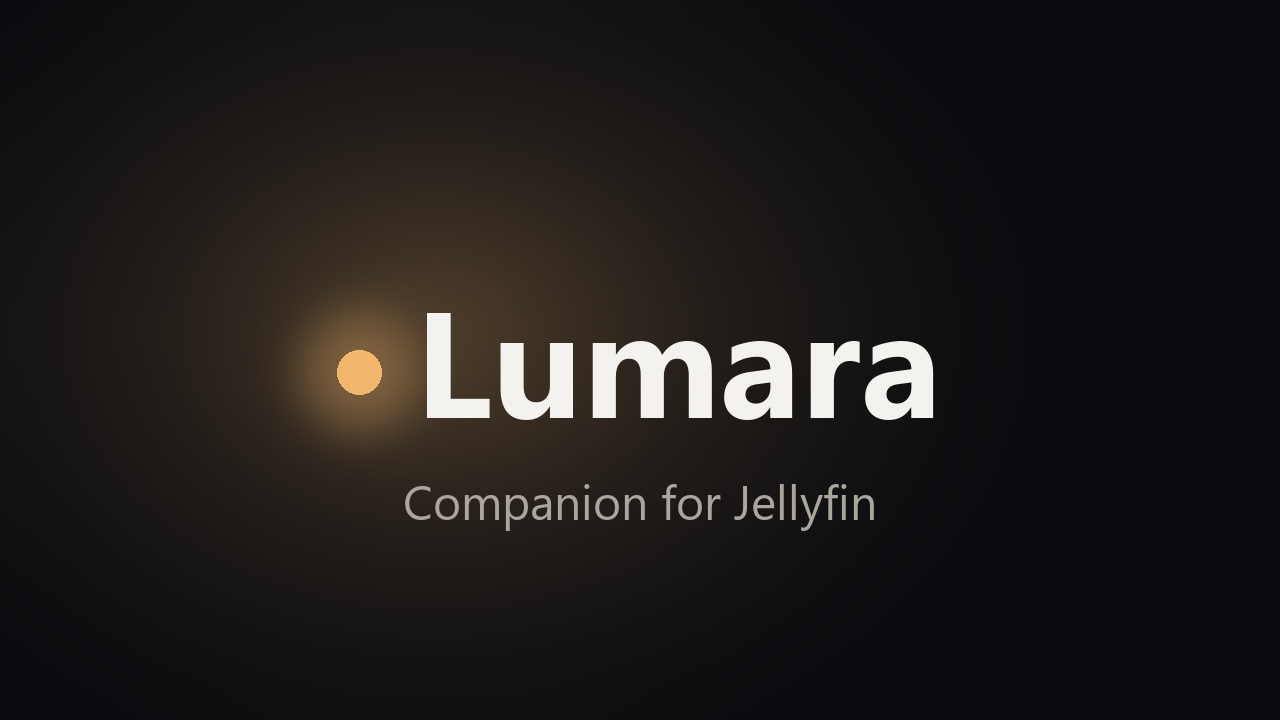
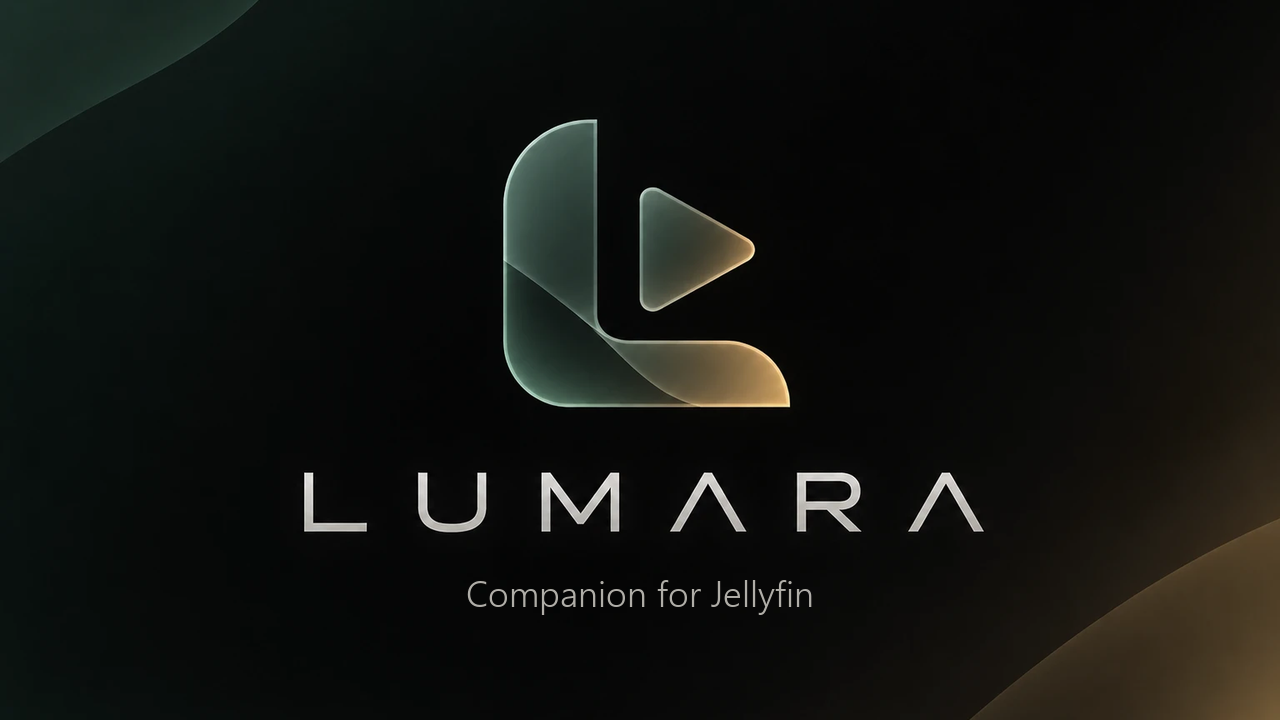
Lumara Companion for Jellyfin 1.0.2

diff --git a/Jellyfin.Plugin.LumaraCompanion/Web/LumaraWebFiles.cs b/Jellyfin.Plugin.LumaraCompanion/Web/LumaraWebFiles.cs
@@ -12,9 +12,10 @@ namespace Jellyfin.Plugin.LumaraCompanion.Web;
 /// Locates and prepares the Lumara Web files shipped next to the plugin DLL.
 /// </summary>
 /// <remarks>
-/// Lumara Web is a separate, proprietary program. It's distributed as plain files
-/// in a <c>lumara-web</c> folder beside this DLL (never compiled into it), with its
-/// own license file, and this plugin only serves those files over HTTP.
+/// Lumara Web is a separate program under the Mozilla Public License 2.0. It's
+/// distributed as plain files in a <c>lumara-web</c> folder beside this DLL (never
+/// compiled into it), with its own license file, and this plugin only serves those
+/// files over HTTP.
 /// </remarks>
 public sealed class LumaraWebFiles
 {

diff --git a/CHANGELOG.md b/CHANGELOG.md
@@ -5,6 +5,23 @@ All notable changes to Lumara Companion for Jellyfin, newest first. Versions fol
 [GitHub Releases](https://github.com/gdavidson26/Lumara-Companion-Jellyfin/releases) is tagged
 `v<version>` and has one zip per Jellyfin version (`.12` for Jellyfin 12, `.11` for 10.11).
 
+## 1.0.2 (2026-11-12)
+
+### Features
+
+- **Lumara Web recommendations:** The Lumara Web that comes with the plugin has three new Home rows built from what each person watches: Recommended for you, Because you watched, and Your kind of evening. They're worked out in the browser and kept there; nothing about them is stored on your server or sent anywhere else.
+
+### Improvements
+
+- **Licenses:** The Lumara Web files that come with the plugin are now open source under the Mozilla Public License 2.0, and the licenses of the libraries inside them are included.
+- **Catalogue picture:** The plugin's picture in Jellyfin's plugin catalogue shows the new Lumara logo.
+- **Lumara Web logo:** Lumara Web shows the new logo while it starts and signs you back in, and uses the L mark in its top bar, browser tab and home-screen icon.
+
+### Fixes
+
+- **Lumara Web lists:** Hiding a title, turning on Spoiler Guard or saving a bookmark from a poster's menu is now saved to your server, so a hidden title no longer comes back after a reload.
+- **Lumara Web spelling:** "Favorites" is spelled the same way everywhere.
+
 ## 1.0.1 (2026-10-19)
 
 ### Fixes

diff --git a/README.md b/README.md
@@ -198,7 +198,8 @@ This plugin is free software under the **GNU GPL v3** (see [LICENSE](LICENSE)), 
 plugins link Jellyfin's GPL-3.0 libraries.
 
 **Lumara Web**, which the release zips include in a separate `lumara-web` folder, is a separate
-proprietary program with its own license (`lumara-web/LICENSE.txt`). It is not compiled into the
-plugin; the plugin serves its files over HTTP, and the GPL here does not extend to it.
+program under the Mozilla Public License 2.0 (`lumara-web/LICENSE.txt`), with the licenses of the
+libraries it bundles in `lumara-web/THIRD_PARTY_NOTICES/`. It is not compiled into the plugin; the
+plugin serves its files over HTTP. Its source is in the main Lumara repository.
 
 Lumara is not affiliated with Jellyfin, Seerr or the *arr projects.
